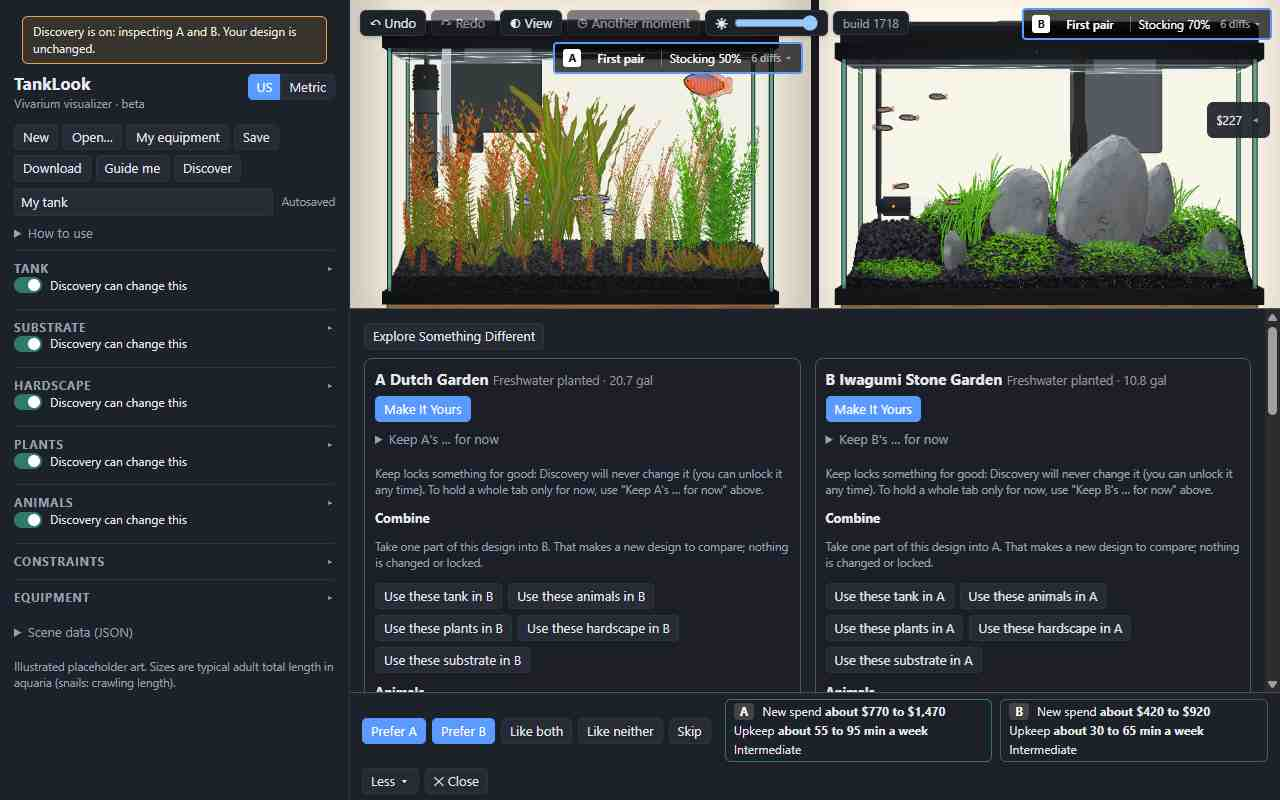
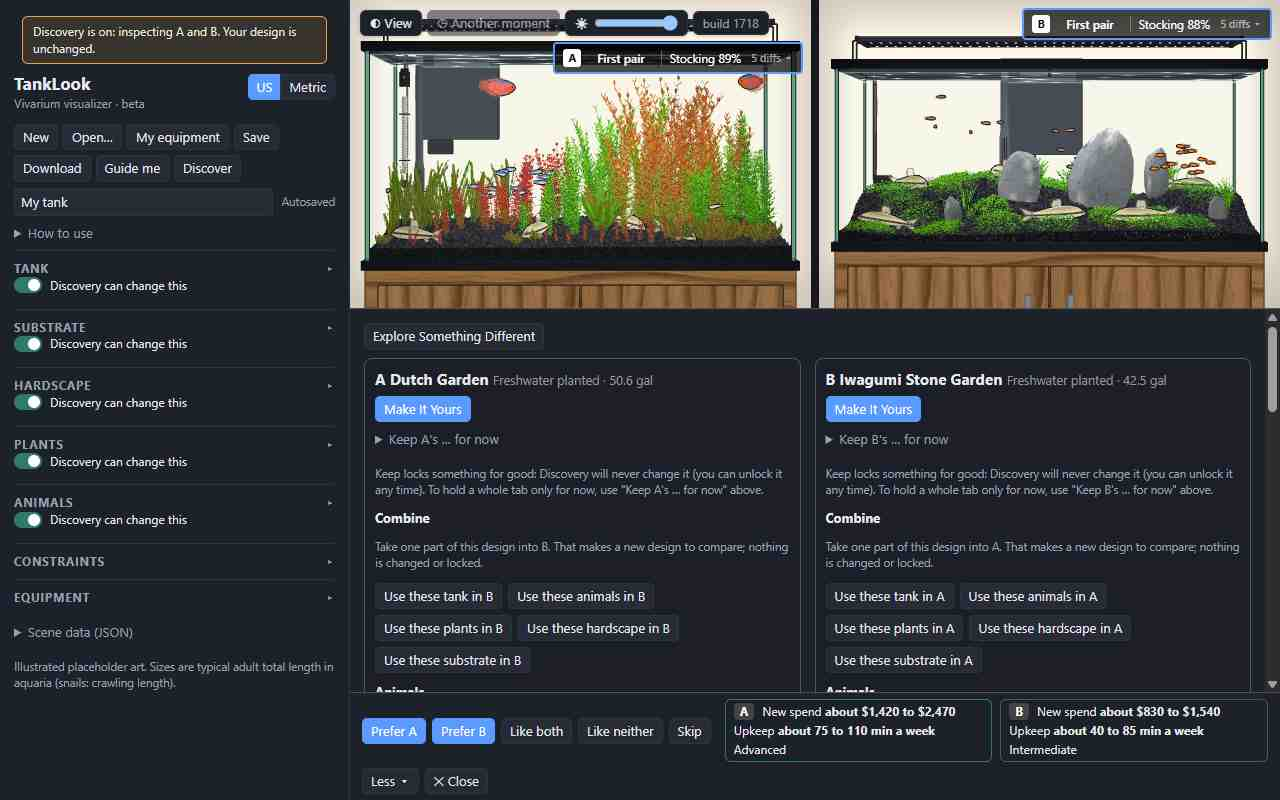
AB5: wire AB6's readQuickPrefs/passesHard into candidate generation; session starts from the habitat picked; demo screenshots (Freshwater / Medium / Lush / live plants, No CO2 vs CO2 allowed)

diff --git a/src/scene/pairGen.ts b/src/scene/pairGen.ts
@@ -16,7 +16,8 @@ import { briefToWants, type Brief } from './brief';
 import { ensureUids } from './uid';
 import { fitGear } from './gearFit';
 import { stockTier } from './sizeTiers';
-import type { QuickPrefs } from './prefsAdapter';
+import { passesHard, readQuickPrefs, type QuickPrefs } from './quickPrefs';
+import { volume } from './physics';
 import { breadthOf, targetDistance, visuallyDistinct, type Breadth } from './breadth';
 import { diffTouches } from './scope';
 import { dropPlants, splice, strongerLight, strugglingPlants, trimAnimals } from './combine';
@@ -155,11 +156,13 @@ function ingest(c: Ctx, scene: TankSetup, label: string, source: Pending['source
   if (eqWhy) return drop(c, eqWhy, [{ id: 'equip:rule', tab: 'equipment', uids: [], text: eqWhy, relax: noNewEquipment(brief) && !plan.infeasible ? 'Allow new equipment for this run' : 'Mark the item Have available instead of Must use' }], ['Allow new equipment, or mark the item Have available instead of Must use']);
   const v0 = verdictOf(after, brief, { units: c.units });
   if (!v0.feasible) return drop(c, label, [...v0.gates, ...v0.hard], [...v0.gates, ...v0.hard].map(i => i.relax ?? `Relax: ${i.text}`));
-  { const nPlants = after.items.filter(i => i.kind === 'plant').length, pf = c.prefs;   // live plants: artificial ones do not count
-    if (pf?.plants === 'require' && nPlants < 6) return drop(c, `${label}: has too few live plants for "definitely live plants"`, [], ['Allow designs with fewer plants']);
-    if (pf?.plants === 'avoid' && nPlants > 0) return drop(c, `${label}: has live plants, which you do not want`, [], ['Allow live plants']); }
   const sc = scoreScene(after, brief, c.w, c.P, c.now), blocked = sc.gate.reasons.filter(r => r.severity === 'blocked');
   if (blocked.length) return drop(c, `${label}: ${blocked[0].text}`, [], blocked.map(r => `Relax: ${r.text}`));
+  if (c.prefs) {   // quick preferences (AB6): only HARD answers filter a candidate
+    const live = after.items.filter(i => i.kind === 'plant').length, art = after.items.filter(i => i.kind === 'artificial').length, IN2 = 25.4 * 25.4;
+    const why = !passesHard(c.prefs, { gallons: after.water.on ? volume(after.tank).gallons : null, floorSqIn: after.tank.L * after.tank.D / IN2, heightIn: after.tank.H / 25.4, plants: live >= 3 ? (art ? 'mixed' : 'live') : 'artificial', species: [...new Set(after.fish.map(f => f.species))], co2: after.grow.feed === 'co2', setupUsd: sc.totals.setupUsd, weeklyMin: sc.totals.minPerWeek });
+    if (why) return drop(c, `${label}: breaks something you said is required or not wanted`, [], ['Relax the requirement that rules this design out']);
+  }
   const v = verdictOf(after, brief, { totals: sc.totals, units: c.units });
   if (!v.feasible) return drop(c, label, [...v.gates, ...v.hard], [...v.gates, ...v.hard].map(i => i.relax ?? `Relax: ${i.text}`));
   const facts = factsOf(after, brief, sc, ids.name);
@@ -279,11 +282,11 @@ export function nextPair(project: PairProject, brief: Brief, session: DiscoveryS
   const scope = effectiveScope(project, session);
   if (!scope.length) return { ok: false, conflicts: ['Nothing is open to change: every menu is switched off or kept for now.'], relaxations: ['Switch a menu on, or release a kept menu'] };
   const { base, notes } = baselineOf(project, session, lookup), freezeNotes = session.freezes.map(f => `Release the kept ${f.tab} tab`);
-  const pf = opts.prefs, w0 = customTankWants(brief, briefToWants(brief)), w1 = pf?.sizeGal?.strength === 'hard' ? { ...w0, tankGal: { min: pf.sizeGal.lo, max: pf.sizeGal.hi } } : w0, w = pf?.world ? { ...w1, kinds: [pf.world] } : w1, br: Breadth = breadthOf(project.tank, session, lookup, scope, type);
+  const pf = opts.prefs ?? readQuickPrefs(brief), w0 = customTankWants(brief, briefToWants(brief)), w = w0, br: Breadth = breadthOf(project.tank, session, lookup, scope, type);
   opts.breadth?.(br);
   const purpose: ProposalPurpose = type === 'fresh' ? 'fresh' : type === 'champion' ? (br.objective === 'refine' ? 'contrast' : 'challenger') : scope.length <= 2 ? 'contrast' : 'first';
   // the cache key holds EVERY input a candidate depends on: the project (its whole design, so locks, hard constraints, owned and Must-use gear, the Discovery switches), the brief, the scope and holds, the direction and the champion
-  const sig = idOf(JSON.stringify([project.rev, session.id, scope, session.freezes, session.direction, type, type === 'first' ? '' : champ?.id, opts.prefs, brief, { ...project.tank, camera: undefined, render: undefined }]));
+  const sig = idOf(JSON.stringify([project.rev, session.id, scope, session.freezes, session.direction, type, type === 'first' ? '' : champ?.id, pf, brief, { ...project.tank, camera: undefined, render: undefined }]));
   const cache = opts.cache?.sig === sig ? opts.cache : opts.cache ? Object.assign(opts.cache, newCache(sig)) : (SHARED.get(sig) ?? (() => { if (SHARED.size >= 6) SHARED.delete(SHARED.keys().next().value!); const n = newCache(sig); SHARED.set(sig, n); return n; })());
   opts.notes?.push(...notes);
   const known = new Set<string>([...(opts.shownKeys ?? []), ...(champ?.key ? [champ.key] : [])]);
@@ -294,10 +297,14 @@ export function nextPair(project: PairProject, brief: Brief, session: DiscoveryS
     return { rec: champ, entry: { id: champ.id, key: champ.key ?? keyOf(S), fp: fingerprintOf(S, sc), features: featuresFor(S, sc) }, tokens: tokensOf(S), source: 'propose', world: '', sc };
   })() : undefined;
   const scoreW = weightsOf(aspectsOf(brief)), scoreOf = (p: Pending) => type === 'fresh' ? 0 : aspectScore(scoreW, p.entry.features) + prefOf(p);   // Something Different ignores learned taste
-  const tasteW = 0.1 + 0.25 * br.confidence + (pf ? 0.4 : 0);     // a told preference ranks harder than a learned one
-  const prefOf = (p: Pending): number => { let v = 0; const g = p.rec.facts.gallons, n = p.rec.snapshot.items.filter(i => i.kind === 'plant').length;
-    if (pf?.sizeGal && g != null) v += g >= pf.sizeGal.lo && g <= pf.sizeGal.hi ? 0.5 : -0.2;
-    if (pf?.plants === 'prefer') v += n >= 6 ? 0.3 : -0.2;
+  const told = !!(pf.sizeGal || pf.floorSqIn || pf.heightIn || pf.plants || Object.keys(pf.look).length), tasteW = 0.1 + 0.25 * br.confidence + (told ? 0.4 : 0);     // a told preference ranks harder than a learned one
+  const prefOf = (p: Pending): number => {   // ranking only (a 'prefer' answer never removes a candidate); a hard answer already filtered
+    let v = 0; const S = p.rec.snapshot, g = p.rec.facts.gallons, n = S.items.filter(i => i.kind === 'plant').length, inR = (x: number, r: { lo: number; hi: number }) => x >= r.lo && x <= r.hi;
+    if (pf.sizeGal && g != null) v += inR(g, pf.sizeGal.value) ? 0.5 : -0.2;
+    if (pf.floorSqIn) v += inR(S.tank.L * S.tank.D / (25.4 * 25.4), pf.floorSqIn.value) ? 0.3 : -0.1;
+    if (pf.heightIn) v += inR(S.tank.H / 25.4, pf.heightIn.value) ? 0.3 : -0.1;
+    if (pf.plants?.strength === 'prefer') v += (pf.plants.value === 'live') === (n >= 6) ? 0.3 : -0.2;
+    if ((pf.look.lush ?? 0) > 0) v += n >= 30 ? 0.2 * pf.look.lush! : 0;
     return v; };                                                                                             // learned taste narrows the RANKING, bounded; it never removes a candidate
   const usable = () => {
     const fresh = cache.pend.filter(p => !known.has(p.rec.key ?? '') && !(champPending && type !== 'fresh' && same(p, champPending)));
@@ -313,7 +320,7 @@ export function nextPair(project: PairProject, brief: Brief, session: DiscoveryS
   };
   // generate only as much as is needed: DX2's proposals on the baseline first (cheap), then one Explore look at a time while there is time and a whole habitat may be drawn
   const gen = champBase ?? base;
-  const ctx: Ctx = { ...(pf ? { prefs: pf } : {}), ...(pf?.avoid?.includes('co2') ? { noCo2: true } : {}), orig: gen, brief, w, P, units, now, scope, baseRev: project.rev, sessionId: session.id, purpose, ...(type === 'champion' && champ ? { parentId: champ.id } : {}), cache };
+  const ctx: Ctx = { prefs: pf, ...(pf.prohibit.includes('co2') ? { noCo2: true } : {}), orig: gen, brief, w, P, units, now, scope, baseRev: project.rev, sessionId: session.id, purpose, ...(type === 'champion' && champ ? { parentId: champ.id } : {}), cache };
   const looks = habitatFree(base, scope) ? looksFor(ctx, session.direction, type, champ) : [];
   let result: { a: CandidateRecord; b: CandidateRecord; pool: number } | undefined;
   for (;;) {

diff --git a/test/ab5gear.test.ts b/test/ab5gear.test.ts
@@ -57,26 +57,26 @@ describe('gear follows what is drawn (many generated candidates)', () => {
   });
 });
 
-// ---------------------------------------------------------------------------------------------------------------- quick preferences (AB6 shape, through the adapter)
+// ---------------------------------------------------------------------------------------------------------------- quick preferences (AB6's real contract)
 import { clearPairCache, nextPair } from '../src/scene/pairGen';
 import { startSession } from '../src/scene/discoverySession';
 import { defaultSetup } from '../src/scene/defaults';
 import { regenerate } from '../src/scene/starter';
 import { IN } from '../src/scene/physics';
-describe('quick preferences: hard answers filter, the rest rank', () => {
+import { applyQuickPrefs, emptyAnswers, readQuickPrefs, type QuickAnswers } from '../src/scene/quickPrefs';
+import { projectExtras, setProjectExtras } from '../src/scene/brief';
+describe('quick preferences: hard answers filter, the rest rank, told outranks learned', () => {
   const project = () => { const t = structuredClone(defaultSetup()); t.tank = { ...t.tank, L: 36 * IN, D: 18 * IN, H: 16 * IN }; t.water.on = true; regenerate(t, 'all', 1); return ensureUids(t); };
-  const pair = (prefs: never) => { clearPairCache(); return nextPair({ tank: project(), rev: 1 }, b, startSession(1, ['tank', 'animals', 'plants', 'hardscape', 'substrate'], 'freshwater', 's'), () => undefined, { next: 'first', prefs }); };
-  it('Definitely live plants + No CO2 (size only ranks): every candidate has live plants, no CO2 feed or line', () => {
-    const r = pair({ world: 'freshwater', sizeGal: { lo: 20, hi: 60 }, plants: 'require', avoid: ['co2'] } as never); expect(r.ok).toBe(true); if (!r.ok) return;
-    for (const c of [r.a, r.b]) {
-      expect(c.snapshot.items.filter(i => i.kind === 'plant').length).toBeGreaterThanOrEqual(6); expect(c.snapshot.grow.feed).not.toBe('co2');
-      expect(c.facts.toBuy.some(l => /co2/i.test(l.label))).toBe(false); expect(!!c.snapshot.water.salt).toBe(false);
-    }
+  const briefOf = (a: Partial<QuickAnswers>) => applyQuickPrefs(setProjectExtras(emptyBrief(), { ...projectExtras(emptyBrief()), direction: 'freshwater' }), { ...emptyAnswers(), ...a });
+  const pair = (br: ReturnType<typeof briefOf>) => { clearPairCache(); return nextPair({ tank: project(), rev: 1 }, br, startSession(1, ['tank', 'animals', 'plants', 'hardscape', 'substrate'], 'freshwater', 's'), () => undefined, { next: 'first' }); };
+  it('Freshwater, Medium, Lush, Definitely live plants, No CO2: live plants, no CO2 feed or line, the medium size is only a ranking', () => {
+    const br = briefOf({ size: 'medium', look: ['lush'], plants: 'definitely', avoid: ['co2'] }), q = readQuickPrefs(br);
+    expect(q.plants).toEqual({ value: 'live', strength: 'hard' }); expect(q.prohibit).toContain('co2'); expect(q.sizeGal?.strength).toBe('prefer');
+    const r = pair(br); expect(r.ok).toBe(true); if (!r.ok) return;
+    for (const c of [r.a, r.b]) { expect(c.snapshot.items.filter(i => i.kind === 'plant').length).toBeGreaterThanOrEqual(3); expect(c.snapshot.grow.feed).not.toBe('co2'); expect(c.facts.toBuy.some(l => /co2/i.test(l.label))).toBe(false); }
   }, 200000);
-  it('a HARD size is honoured: whatever pair comes back is inside the range', () => {
-    const r = pair({ sizeGal: { lo: 20, hi: 60, strength: 'hard' } } as never); if (r.ok) for (const c of [r.a, r.b]) { expect(c.facts.gallons!).toBeGreaterThanOrEqual(20); expect(c.facts.gallons!).toBeLessThanOrEqual(60); }
-  }, 200000);
-  it('a prefer-size answer only ranks: no candidate is removed for being outside it', () => {
-    const r = pair({ sizeGal: { lo: 30, hi: 40 }, plants: 'prefer' } as never); expect(r.ok).toBe(true);
-  }, 200000);
+  it('lifting the No CO2 prohibition removes no candidate and does not force CO2 (the fitGear set above)', () => {
+    const on = readQuickPrefs(briefOf({ avoid: ['co2'] })), off = readQuickPrefs(briefOf({}));
+    expect(on.prohibit).toEqual(['co2']); expect(off.prohibit).toEqual([]);
+  });
 });

diff --git a/src/ui/ab/real.ts b/src/ui/ab/real.ts
@@ -16,7 +16,7 @@ import { championConflicts, lockConflicts } from './logic';
 import type { Store } from '../../scene/store';
 import type { VerdictOpts } from '../../scene/verdict';
 import type { CandidateRecord, DiscoverySession, Outcome, PairResult, ReasonKey } from '../../scene/discoveryTypes';
-import { quickPrefsOf } from '../../scene/prefsAdapter';
+import { projectExtras } from '../../scene/brief';
 import { adjustmentsOf } from '../../scene/combine';
 import { getSpecies } from '../../data/species';
 import type { AbEngine, CombineOutcome, CombineProposal, HistoryPage, ReEval } from './adapter';
@@ -26,12 +26,13 @@ const PAGE = 6;
 
 export function createRealEngine(store: Store, _opts: () => VerdictOpts = () => ({}), project: string = PROJECT): AbEngine {
   const hist = createProposalHistory(project), mem = new Map<string, CandidateRecord>();
-  let s: DiscoverySession = startSession(store.rev, discoverTabs(store.tank)), stale = false;
+  const dir = () => projectExtras(getBrief()).direction ?? 'unsure';   // the habitat picked at Start New
+  let s: DiscoverySession = startSession(store.rev, discoverTabs(store.tank), dir()), stale = false;
   const save = () => { saveSession(project, s); };
   const rec = (id: string | undefined): CandidateRecord | undefined => id ? hist.get(id) ?? mem.get(id) : undefined;
   const nothing = (c: string[], r: string[]): PairResult => ({ ok: false, conflicts: c.length ? c : ['Every candidate broke a lock or a limit.'], relaxations: r.length ? r : ['Open a tab (check its switch) or relax a lock.'] });
   const proj = () => ({ tank: store.tank, rev: store.rev });
-  const pair = (type: NextPair['type']): PairResult => nextPair(proj(), getBrief(), s, id => rec(id), { next: type, shownKeys: [...mem.values()].flatMap(r => r.key ? [r.key] : []), units: store.scene.units, ...(quickPrefsOf(getBrief()) ? { prefs: quickPrefsOf(getBrief()) } : {}) });
+  const pair = (type: NextPair['type']): PairResult => nextPair(proj(), getBrief(), s, id => rec(id), { next: type, shownKeys: [...mem.values()].flatMap(r => r.key ? [r.key] : []), units: store.scene.units });
   const sideOf = (r: CandidateRecord) => { const b = getBrief(); return { id: r.id, features: featuresFor(r.snapshot, scoreScene(r.snapshot, b, customTankWants(b, briefToWants(b)))) }; };
   const show = (a: CandidateRecord, b: CandidateRecord, type: NextPair['type']): PairResult => {
     const ids: string[] = [];
@@ -52,13 +53,13 @@ export function createRealEngine(store: Store, _opts: () => VerdictOpts = () => 
     open(scope) {
       const prev = loadSession(project);
       if (prev && prev.comparisons.length) { const r = resume(prev, store.rev); s = r.session; stale = r.needsRebase; }
-      else { s = startSession(store.rev, scope ?? discoverTabs(store.tank)); stale = false; }
+      else { s = startSession(store.rev, scope ?? discoverTabs(store.tank), dir()); stale = false; }
       if (scope) s = { ...s, scope: [...scope], status: 'active' };
       save();
     },
     isStale: () => stale,
     rebase() { const before = s.championId; s = rebaseSession(s, store.rev).session; stale = false; markChampion(before); save(); },
-    restart() { s = startSession(store.rev, s.scope); stale = false; save(); },
+    restart() { s = startSession(store.rev, s.scope, dir()); stale = false; save(); },
     next() { const c = s.current, a = rec(c?.aId), b = rec(c?.bId); return a && b ? { ok: true, a, b } : drawFor(nextNow()); },
     choose(outcome: Outcome, why?: ReasonKey[], otherGood?: ReasonKey[]) {
       const before = s.championId, a = rec(s.current?.aId), b = rec(s.current?.bId), r = recordOutcome(s, outcome, why, otherGood);

diff --git a/HANDOFF.md b/HANDOFF.md
@@ -79,7 +79,7 @@ Lane AB5 on build 1718. Nathan's review: winner-takes-all is the weak point; Com
 - **Combine.** `combine(target, donor, tab, project, brief)` (pairGen.ts; pure helpers in `scene/combine.ts`) makes a NEW record (purpose `adapted`, parentId = target, donor named in `assumptions`). Splice = `confine(target, donor, [tab])` with the target's gear/support kept and donor positions scaled into the target tank; then the SAME road as every candidate (`ingest`: lock confinement, checkProposal, equipPlan rules, verdictOf, Explore gate, facts). Repairs stay inside the combined tab: plants -> a stronger light (watts up; priced by the gear) and, when a Must-use light caps them, the plants it cannot carry are dropped; animals/tank -> trim ladder (75/50/35/25/15 % per species, then whole species, locked species never trimmed). No repair = `ok:false` with the first attempt's reasons + a one-line smallest change. A tab whose Discovery switch is off is refused. Never writes the project or a lock.
 - **Main-view dock (Nathan 2026-11-10; replaces the .abx overlay).** A and B are drawn in the MAIN view by the viewer's render-only pair layer (`viewer.showPair`, `pairShot`, `setReserve`; the A/B chips in panels.ts onDrawn show favourite / challenger; per-view framing, so freshwater vs terrarium/reef/paludarium works). `ui/ab/screen.ts` is now only the bottom dock: always-visible Prefer A/B, Like both/neither, Skip, a facts line per side (favourite starred), More, Close; ONE expandable panel above it (reasons, Explore Something Different, Combine, Keep A's tab for now, quick sheets with Keep/Lock, history, Make It Yours). While open, `store.frozen`: ordinary design edits are refused (draft check, `Store.designKey`), locks / Discovery switches / brief / camera still work with no undo step; menus keep showing the working design with a note. Close restores exactly and says once if a lock is not yet in the design. Combine is a PROPOSAL (`combine` then `acceptCombine`) listing every adjustment (`adjustmentsOf`) and costs; Cancel stores nothing.
 - **Adaptive breadth** (`scene/breadth.ts`). `breadthOf` = 1 - 0.5*structure - 0.45*confidence (structure: switched-off/frozen tabs 0.25 each, locks 0.1 each; confidence: consistency of the last 8 decisive wins on one world or look, diluted by neither/skip). `targetDistance` 0.2..0.45 replaces the old round-count table. `objective` refine (< 0.55) picks controlled contrasts (few tabs differ, purpose `contrast`); explore requires a visually distinct challenger / pair (world, look family or hardscape-to-plant balance, `visuallyDistinct`) before the soft deadline. Learned taste only adds a bounded ranking bonus (0.1 + 0.25*confidence); 'fresh' ignores it and is breadth 1. `suggestNarrowing` gives the optional one-liner ("You've picked freshwater 4 times. Switch Tank off to focus on the inside?") with buttons; nothing is switched by the engine.
-- **Generator additions (2026-11-10).** `scene/sizeTiers.ts` `stockTier` (via additive `PoolOptions.stock`): each catalogue size of a look gets ITS OWN stocking (kinds 2/3/4, growth multipliers checked by tankfit + the strict welfare rule); pairGen offers 2-3 sizes per look (later pairs at once, the first pair after the size-1 pass). `scene/gearFit.ts` `fitGear` runs on EVERY candidate in `ingest`: CO2-required plants set feed to CO2 (priced; `pairFacts.withCo2` shows the line), a "No CO2" requirement drops those plants and any CO2 feed, a stronger light (watts) where PAR < wanted, struggling plants dropped. `scene/prefsAdapter.ts`: AB6's QuickPrefs shape (hard = world / size with strength 'hard' / plants require|avoid / avoid co2 filter; others rank, +0.4 ranking weight); in-memory `holdQuickPrefs` until `readQuickPrefs` lands (a brief item with an unknown id is dropped by the brief's sanitising). NOT done: real catalogue products per gear item, 3D backdrop (scope.ts files `backdrop` under the TANK tab's room group, not hardscape), plants drawn only to what the gear can carry beyond the PAR/CO2 checks, terrarium sizing by height/floor.
+- **Generator additions (2026-11-10).** `scene/sizeTiers.ts` `stockTier` (via additive `PoolOptions.stock`): each catalogue size of a look gets ITS OWN stocking (kinds 2/3/4, growth multipliers checked by tankfit + the strict welfare rule); pairGen offers 2-3 sizes per look (later pairs at once, the first pair after the size-1 pass). `scene/gearFit.ts` `fitGear` runs on EVERY candidate in `ingest`: CO2-required plants set feed to CO2 (priced; `pairFacts.withCo2` shows the line), a "No CO2" requirement drops those plants and any CO2 feed, a stronger light (watts) where PAR < wanted, struggling plants dropped. AB6's real contract is wired in pairGen: `readQuickPrefs(brief)`; `passesHard` filters in `ingest` (after scoring), prefer answers rank (+0.4 weight, size / floor / height / plants / lush), `prohibit co2` also makes gearFit drop CO2 plants; the real engine starts the session with the brief's habitat direction. NOT done: real catalogue products per gear item, 3D backdrop (scope.ts files `backdrop` under the TANK tab's room group, not hardscape), plants drawn only to what the gear can carry beyond the PAR/CO2 checks, terrarium sizing by height/floor.
 - **Metrics** (`ui/ab/metrics.ts`): capped (500) local event log in localStorage `tanklook.abmetrics`, nothing sent; `?debug` shows "Discovery stats" under the screen (comparisons by type/outcome, reasons, combines, keeps/locks, freezes, history ops, rounds to Make It Yours, abandon rounds, median ms).
 - Tests: `test/ab5.test.ts` (22), integration +1. Screens `research/screens/ab5/`. Progress panel and product rename untouched.
 ## AB6 (2026-11-10): quick preferences, "ask what they know; show what they don't" (Coordinator 21; NOT pushed)
